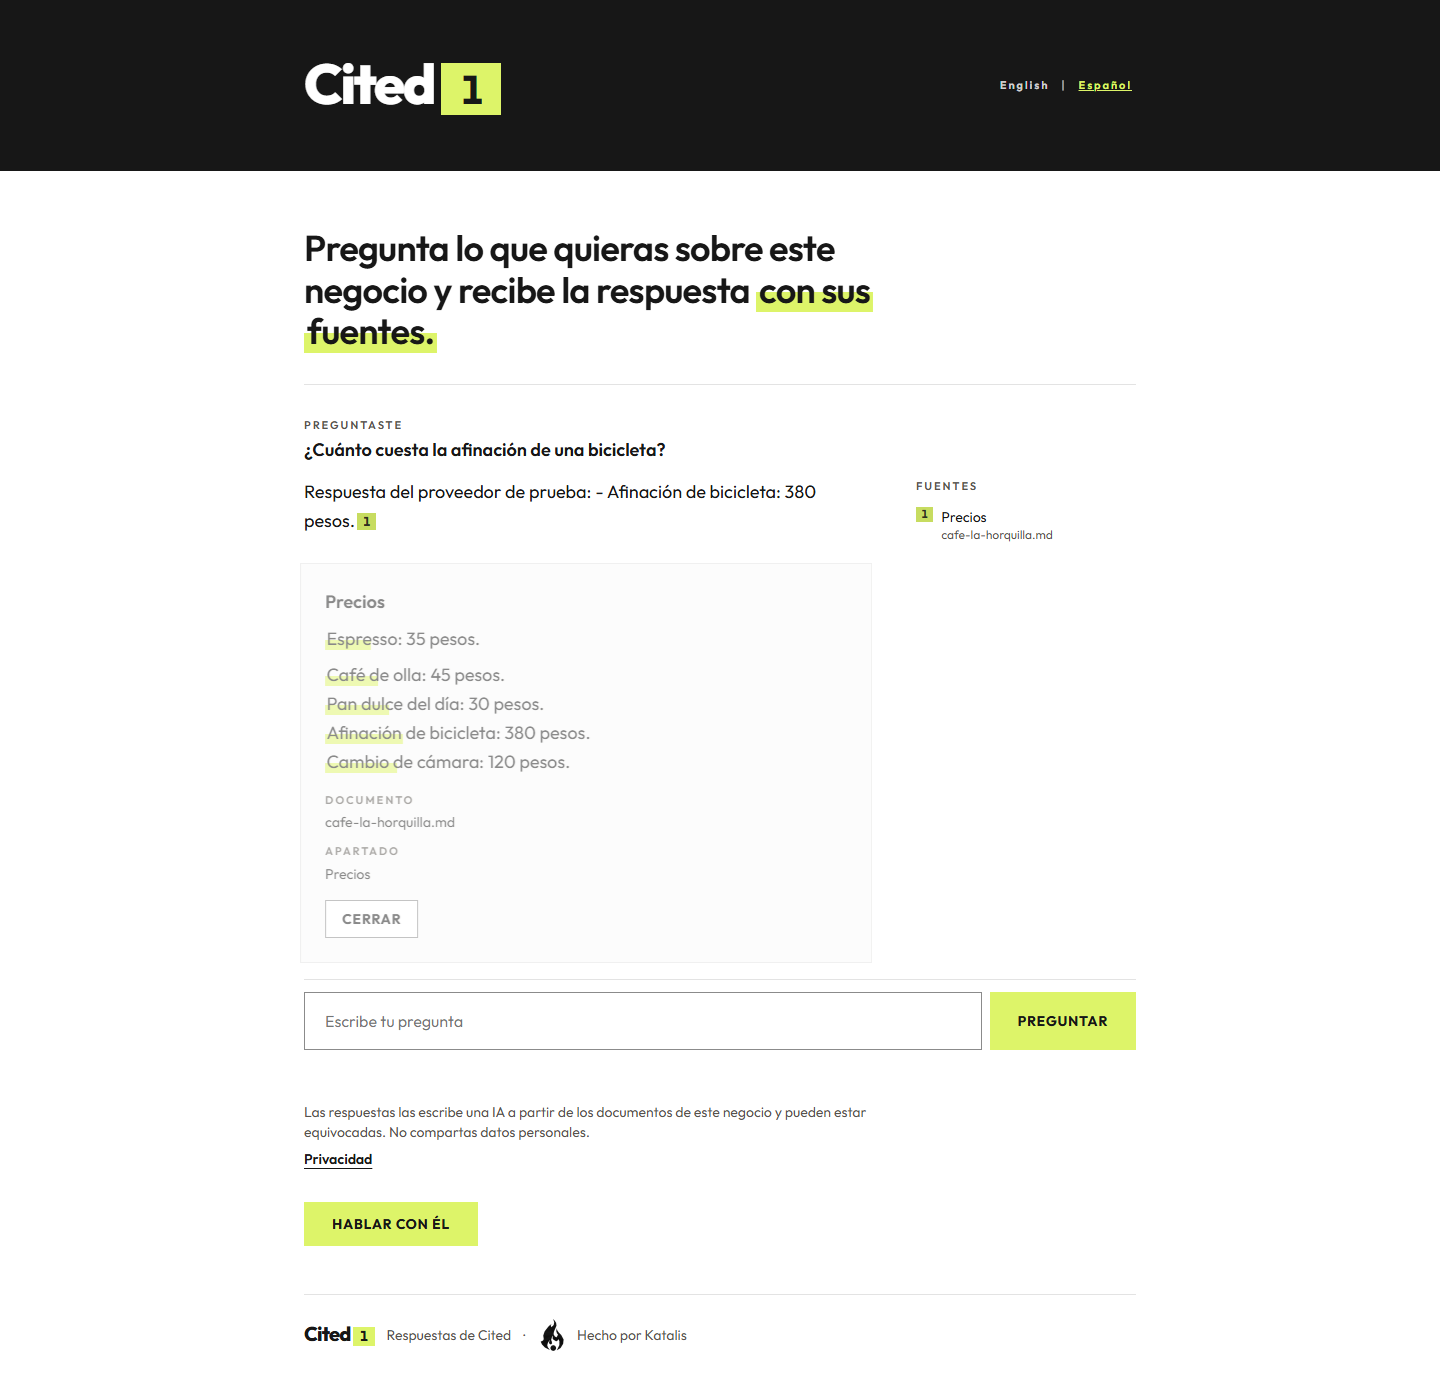
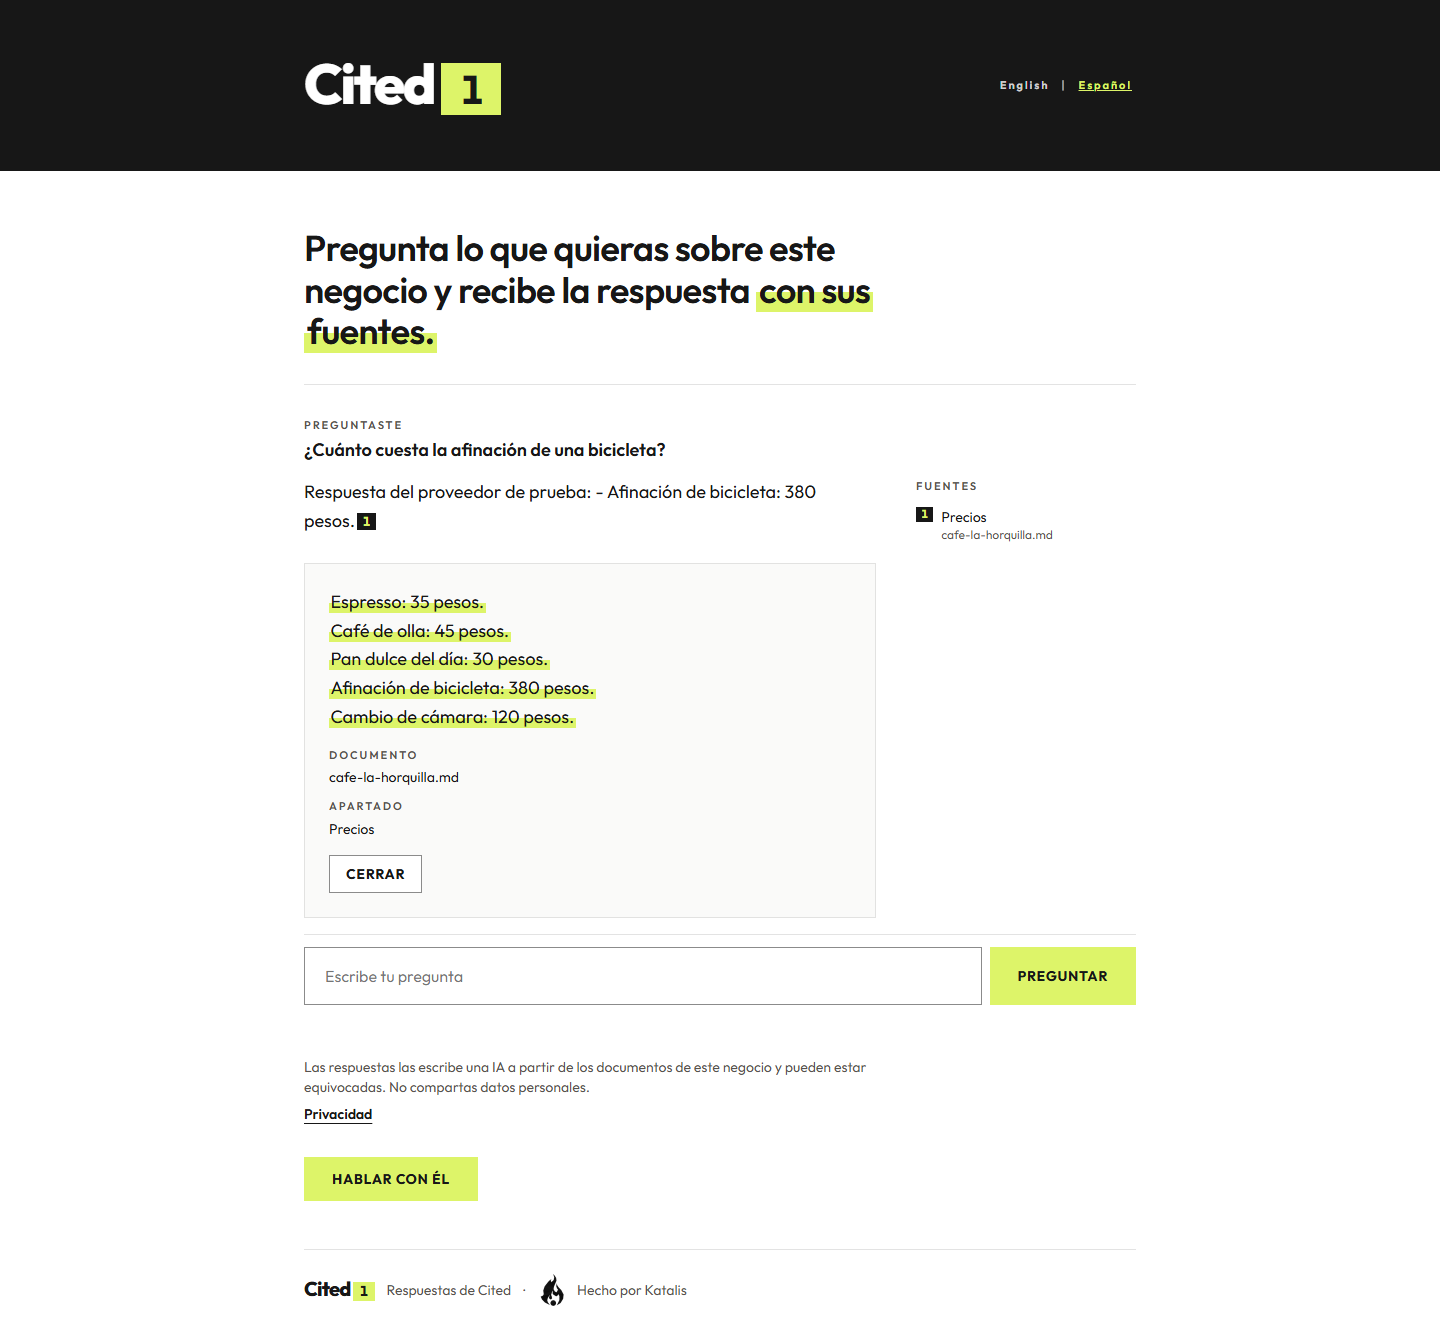
Capture the four views of Amendment 1, in both languages and both widths (task 10.4)
The two captures 7.2 declared NOT DONE (Try it with a cited passage and the page of a document with the highlighted passage) join the five of the public page and the widget, taken again with prefers-reduced-motion: reduce so the highlighter is finished.

diff --git a/openspec/changes/passage-display-polish/reports/2026-09-30-step-10-captures.md b/openspec/changes/passage-display-polish/reports/2026-09-30-step-10-captures.md
@@ -1,0 +1,62 @@
+# Step 10 — the captures of Amendment 1 (task 10.4)
+
+- **Date:** 2026-09-30
+- **Change:** `passage-display-polish` (`tasks.md`, task 10.4)
+- **Branch:** `feature/passage-display-polish`
+- **Commit this report was verified against:** `8c99552` (the implementation of decisions 9 to 12)
+- **Agent:** DeepSeek (implementer)
+- **Verdict:** the two captures that 7.2 declared NOT DONE are taken, in both languages and both widths, and the five
+  of the public page and the widget are taken again. Every one of the thirteen is taken with
+  `prefers-reduced-motion: reduce`, so the highlighter of the picture is the finished one.
+
+## The command
+
+```
+<clean clone of 8c99552> > $env:CI = "1"; npm run test:e2e
+
+  94 passed (2.0m)
+[exit code: 0]
+```
+
+The clone is disposable and was created from the objects committed with
+`git clone --no-hardlinks --branch feature/passage-display-polish`; its only environment file is the `.env.example` of
+the repository, and no `.env.local` of any worktree was opened. The 94 cases of the whole suite pass in 2.0 min, among
+them the five of `e2e/passage-display.spec.ts`, which now runs with `test.use({ reducedMotion: "reduce" })`, and the
+two new cases of the page of a document with the highlighted passage, one per language. The suite of the round before
+this one was 92 cases.
+
+`npm run build:e2e` compiles before Playwright starts. The servers and the ports are the ones of
+`playwright.config.ts` (3100 and 3210 to 3217), free when the run started, and no process of another agent was
+stopped. The captures land in `test-results/captures/passage-display/` and `test-results/captures/admin/`, which
+`.gitignore` excludes, and were copied to `openspec/changes/passage-display-polish/reports/images/`:
+
+```
+public-precios-1440-en.png  1440x1289    public-precios-375-en.png   375x1477
+public-precios-1440-es.png  1440x1330    public-precios-375-es.png   375x1509
+widget-precios-375-en.png    375x1058
+try-1440-en.png             1440x1566    try-375-en.png               375x2906
+try-1440-es.png             1440x1304    try-375-es.png               375x2627
+document-1440-en.png        1440x1109    document-375-en.png          375x1507
+document-1440-es.png        1440x1109    document-375-es.png          375x1507
+```
+
+## What each capture shows
+
+| Image | Source | What it shows |
+|---|---|---|
+| `public-precios-1440-en.png` | `e2e/passage-display.spec.ts` | the public page in English with the passage `Precios` open: the heading once under `HEADING`, the five items as one list, each one painted on its own line |
+| `public-precios-375-en.png` | the same case at 375 px | the same at 375 px |
+| `public-precios-1440-es.png` | the second case | the same in Spanish, under `APARTADO` |
+| `public-precios-375-es.png` | the second case at 375 px | the same at 375 px |
+| `widget-precios-375-en.png` | the case of `/embed` | the widget with the same passage open: one list of five items and the heading once |
+| `try-1440-en.png` | `e2e/setup.spec.ts` (the walk) | Try it with the cited passage: the mark `1` beside it, the heading once as the section label, the highlighter on its own words and the document beside it |
+| `try-375-en.png` | the same case at 375 px | the same at 375 px |
+| `try-1440-es.png` | `e2e/setup-es.spec.ts` (the walk in Spanish) | the same in Spanish, with the suggestions of the Spanish documents |
+| `try-375-es.png` | the same case at 375 px | the same at 375 px |
+| `document-1440-en.png` | `e2e/setup.spec.ts` | the page of `cafe-la-horquilla.md` opened at `?highlight=2`: the `Precios` passage is the highlighted one, one list with five items, its heading once as the `h2` of the section |
+| `document-375-en.png` | the same case at 375 px | the same at 375 px |
+| `document-1440-es.png` | `e2e/setup-es.spec.ts` | the same page in Spanish: `Documento`, `Precios` and the five items in the highlighter |
+| `document-375-es.png` | the same case at 375 px | the same at 375 px |
+
+The defect the review of art found — `Café La Horquilla Somos un café…` and a list joined with ` - ` — and the two
+Majors of the adversarial review — the heading twice and the list split in two — appear in none of the thirteen.

diff --git a/openspec/changes/passage-display-polish/tasks.md b/openspec/changes/passage-display-polish/tasks.md
@@ -105,7 +105,7 @@ Context of `design.md`; the decisions there are closed.
       (decision 12)
 - [x] 10.3 The heading only on the section line of the citation panel (decision 9), one list (decision 10), the lead
       in Try it and on the document page (decision 11), no list from a body without line breaks (decision 12)
-- [ ] 10.4 The captures of 7.2 that were missing, saved in `reports/images/`: Try it with a cited passage and the
+- [x] 10.4 The captures of 7.2 that were missing, saved in `reports/images/`: Try it with a cited passage and the
       document page with the highlighted passage, in Spanish and in English, at 1440 px and at 375 px, taken with
       `prefers-reduced-motion: reduce` so the highlighter is finished; the captures of the public page and the widget
       taken again the same way
